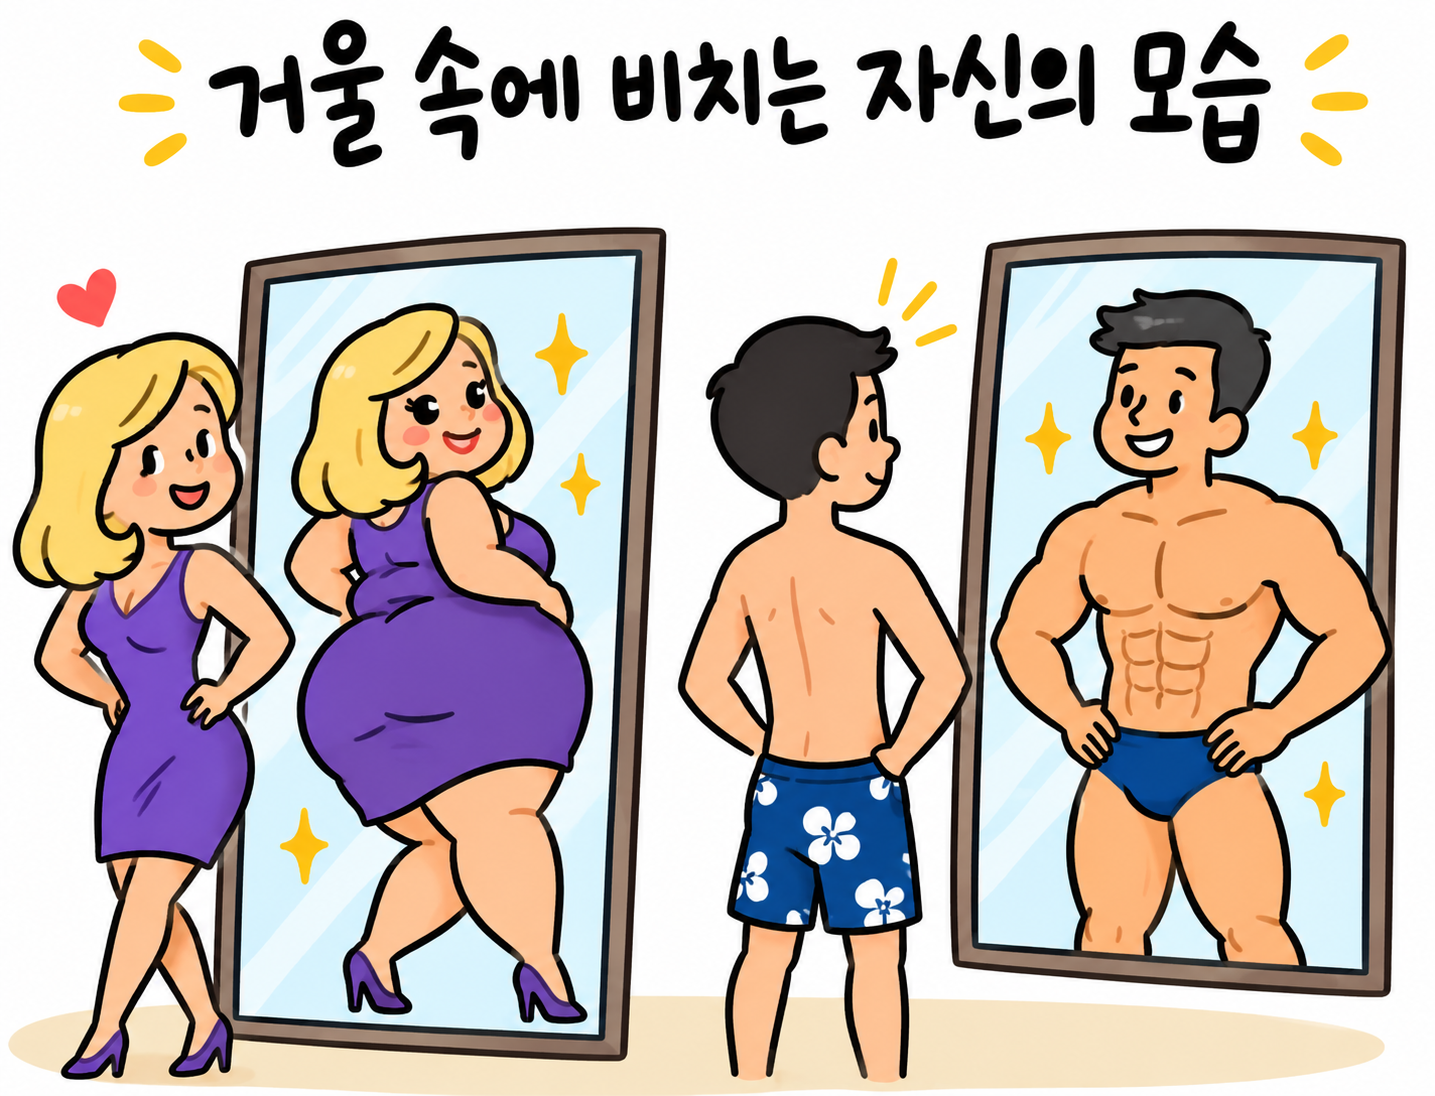
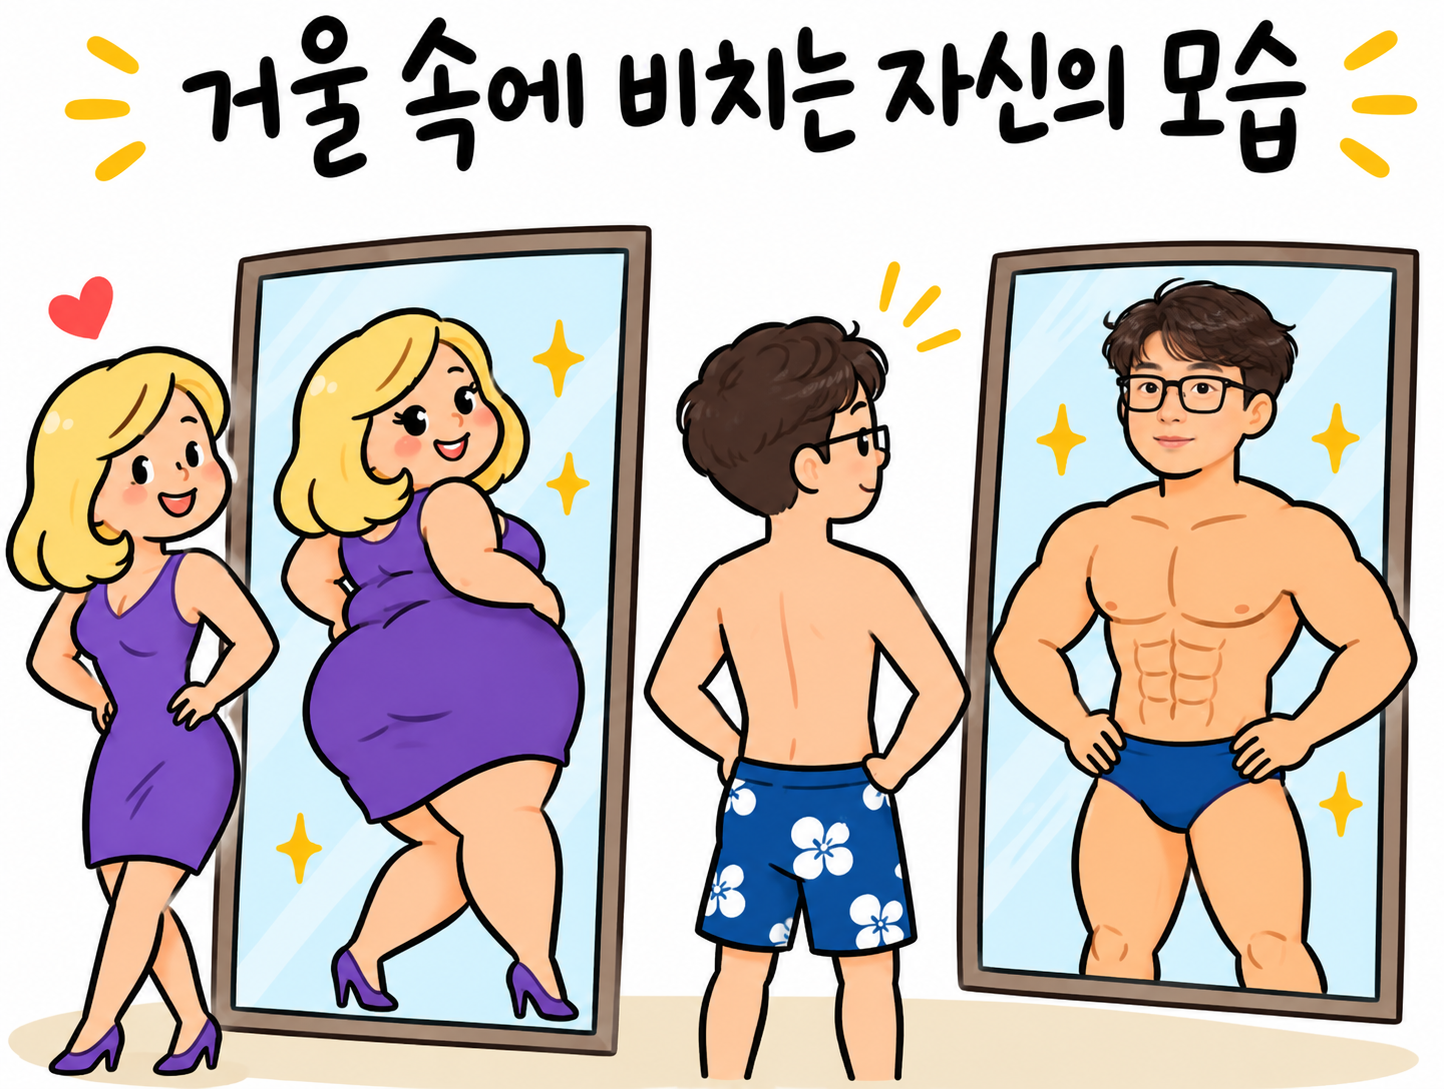
Swap in face-updated illustration and deepen the background blend on slide 8

diff --git a/host.html b/host.html
@@ -106,8 +106,8 @@
   .johari-cell .jc-desc{font-family:var(--font-m);font-size:10px;color:var(--ink-faint);line-height:1.4;white-space:pre-line;}
   .johari-axis-x{font-family:var(--font-m);font-size:11px;color:var(--ink-faint);text-align:center;}
 
-  .image-side{display:flex;align-items:center;justify-content:center;}
-  .image-side img{max-width:100%;max-height:70vh;filter:brightness(.9) saturate(.85);-webkit-mask-image:radial-gradient(ellipse 68% 68% at center, black 50%, transparent 96%);mask-image:radial-gradient(ellipse 68% 68% at center, black 50%, transparent 96%);}
+  .image-side{display:flex;align-items:center;justify-content:center;padding:24px;}
+  .image-side img{max-width:100%;max-height:64vh;filter:brightness(.82) contrast(.92) saturate(.7);-webkit-mask-image:radial-gradient(ellipse 60% 60% at center, black 30%, transparent 88%);mask-image:radial-gradient(ellipse 60% 60% at center, black 30%, transparent 88%);}
 
   .wall{display:flex;flex-wrap:wrap;gap:10px;align-content:flex-start;}
   .wall-item{background:var(--paper);border:1px solid var(--rule);border-radius:10px;padding:10px 13px;font-size:14px;max-width:280px;box-shadow:0 1px 2px var(--shadow);}
